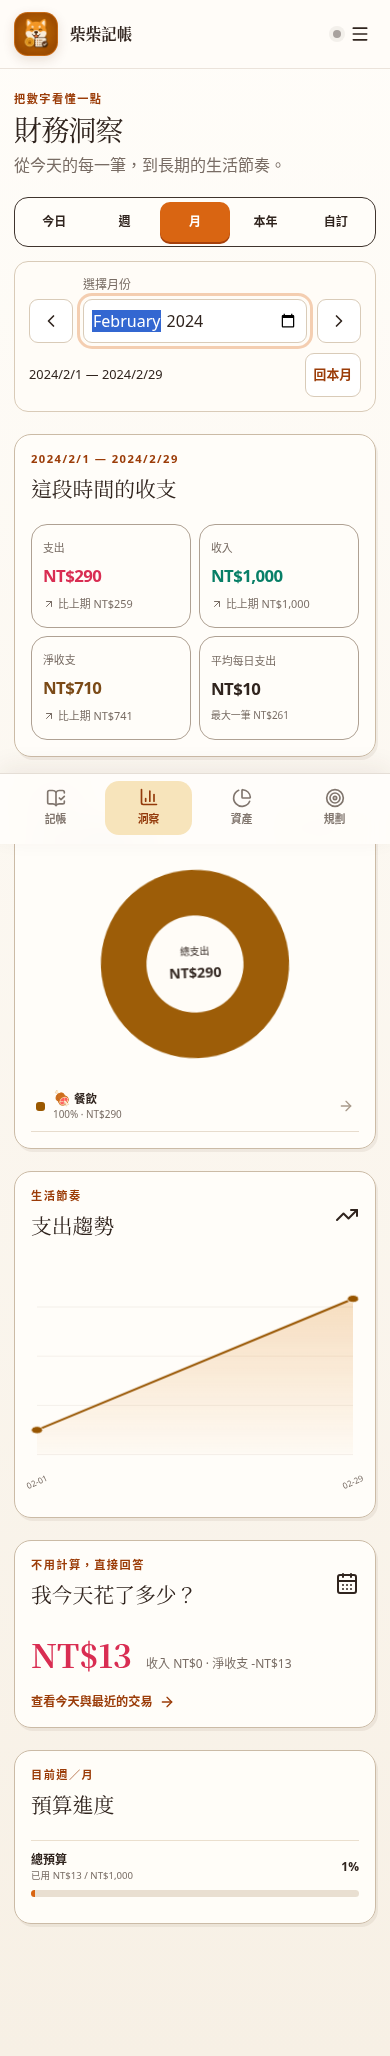
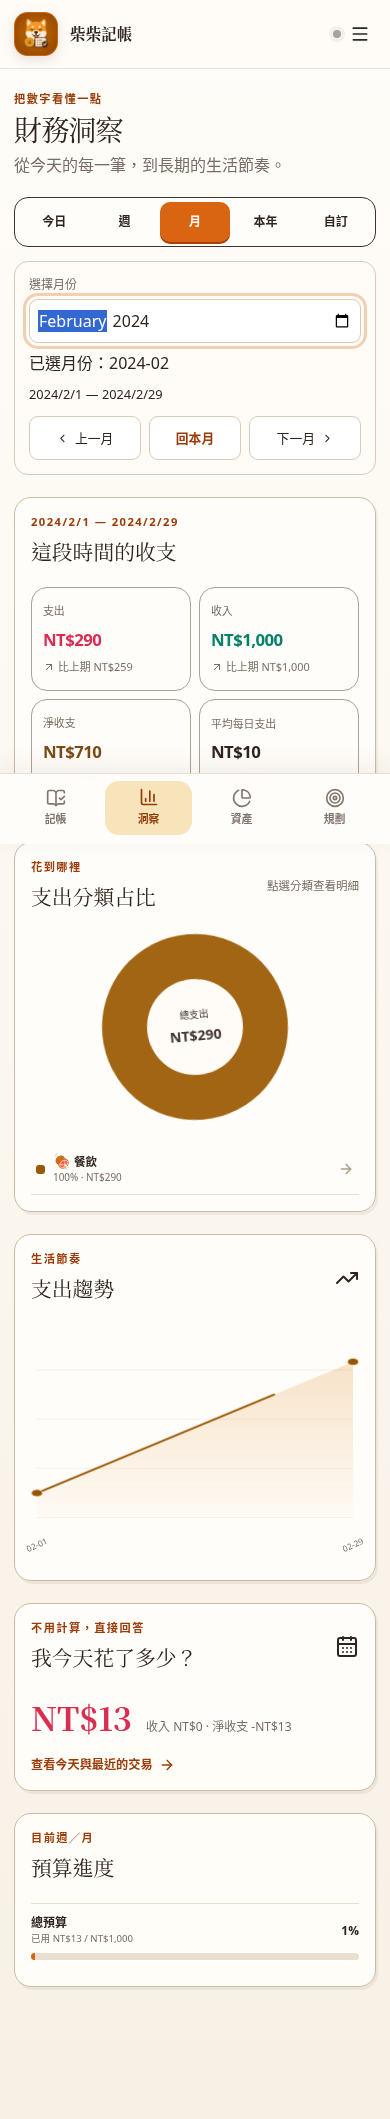
fix: prevent mobile calendar period controls from overlapping

diff --git a/src/index.css b/src/index.css
@@ -117,15 +117,18 @@ button:focus-visible,input:focus-visible,select:focus-visible,summary:focus-visi
 .period-switch { margin-bottom:22px; border:1px solid #3f342d; border-radius:14px; padding:4px; display:grid; grid-template-columns:repeat(5,1fr); background:#fffdf9; }.period-switch button { min-height:40px; border:0; border-radius:10px; background:transparent; font-size:.75rem; font-weight:850; cursor:pointer; }.period-switch button.active { color:white; background:var(--orange); box-shadow:0 2px 0 #a6400b; }
 .custom-range { margin:-8px 0 20px; display:flex; align-items:end; justify-content:center; gap:10px; color:var(--muted); }.custom-range label { font-size:.7rem; }.custom-range input { display:block; margin-top:4px; border:1px solid var(--line); border-radius:9px; padding:8px; background:#fff; }
 .calendar-period-picker { margin:-8px 0 22px; padding:14px; border:1px solid var(--line); border-radius:14px; background:var(--paper); }
-.calendar-period-controls { display:grid; grid-template-columns:44px minmax(0,1fr) 44px; gap:10px; align-items:end; }
-.calendar-period-controls label { min-width:0; color:var(--muted); font-size:.75rem; }
-.calendar-period-controls input { display:block; width:100%; min-width:0; min-height:44px; margin-top:5px; padding:8px; border:1px solid var(--line); border-radius:9px; background:white; color:var(--ink); font-size:16px; }
-.calendar-period-picker button { min-width:44px; min-height:44px; padding:8px; border:1px solid var(--line); border-radius:9px; background:white; cursor:pointer; }
-.calendar-period-controls button { display:grid; place-items:center; }
-.calendar-period-caption { display:flex; flex-wrap:wrap; align-items:center; justify-content:space-between; gap:8px; margin-top:10px; }
-.calendar-period-caption p { margin:0; font-size:.8rem; font-variant-numeric:tabular-nums; }
+.calendar-period-field { display:block; min-inline-size:0; color:var(--muted); font-size:.75rem; }
+/* Give native date/month controls their own row: iOS intrinsic sizing must not compete with arrows. */
+.calendar-period-field input { display:block; box-sizing:border-box; inline-size:100%; max-inline-size:100%; min-inline-size:0; min-height:44px; margin-top:5px; padding:8px; border:1px solid var(--line); border-radius:9px; background:white; color:var(--ink); font-size:max(16px,1rem); -webkit-appearance:none; appearance:none; }
+.calendar-period-field input::-webkit-date-and-time-value { min-inline-size:0; text-align:start; }
+.calendar-period-value { margin:8px 0 0; overflow-wrap:anywhere; font-size:1rem; font-variant-numeric:tabular-nums; }
+.calendar-period-caption { min-inline-size:0; margin-top:10px; }
+.calendar-period-caption p { margin:0; overflow-wrap:anywhere; font-size:.8rem; font-variant-numeric:tabular-nums; }
 .calendar-period-caption small { display:block; margin-top:3px; color:var(--muted); }
-.calendar-period-caption button { color:var(--orange-dark); font-size:.8rem; font-weight:800; }
+.calendar-period-actions { display:flex; flex-wrap:wrap; gap:8px; margin-top:12px; }
+.calendar-period-actions button { display:flex; flex:1 0 auto; align-items:center; justify-content:center; gap:6px; min-width:44px; min-height:44px; padding:8px; border:1px solid var(--line); border-radius:9px; background:white; font-size:.8rem; white-space:nowrap; cursor:pointer; }
+.calendar-period-actions svg { flex:none; width:1em; height:1em; }
+.calendar-period-actions .calendar-period-reset { color:var(--orange-dark); font-weight:800; }
 .insight-summary { border-radius:20px; padding:22px; }.metric-grid { display:grid; grid-template-columns:repeat(4,minmax(0,1fr)); gap:12px; }.insight-metric { min-width:0; min-height:118px; border:1px solid #afa193; border-radius:16px; padding:15px; display:flex; flex-direction:column; justify-content:center; }.insight-metric>span { color:var(--muted); font-size:.68rem; }.insight-metric>strong { margin:7px 0; font-size:clamp(1.05rem,2.6vw,1.55rem); }.insight-metric.expense>strong { color:var(--rose); }.insight-metric.income>strong { color:var(--green); }.insight-metric.net>strong { color:#7b4a17; }.insight-metric small,.metric-delta { color:var(--muted); font-size:.62rem; }.metric-delta { display:flex; align-items:center; gap:3px; }
 .analysis-grid { margin-top:22px; display:grid; grid-template-columns:1fr 1fr; gap:22px; }.analysis-panel { min-width:0; border-radius:20px; padding:22px; }.donut-layout { display:grid; grid-template-columns:210px minmax(0,1fr); align-items:center; gap:22px; }.category-donut { width:200px; height:200px; }.category-donut>span { inset:31%; }.category-donut b { margin-top:3px; font-size:.9rem; }.donut-legend { display:flex; flex-direction:column; }.donut-legend button { min-width:0; border:0; border-bottom:1px solid #e7dccd; padding:9px 5px; display:grid; grid-template-columns:9px minmax(0,1fr) 16px; align-items:center; gap:8px; text-align:left; background:transparent; cursor:pointer; }.donut-legend button.selected { margin-inline:-6px; padding-inline:11px; border-radius:9px; background:#f6ecdf; }.donut-legend i { width:9px; height:9px; border-radius:3px; }.donut-legend b,.donut-legend small { display:block; }.donut-legend b { overflow:hidden; text-overflow:ellipsis; font-size:.72rem; white-space:nowrap; }.donut-legend b>span { font-size:.9rem!important; }.donut-legend small { color:var(--muted); font-size:.62rem; }.donut-legend svg { color:#a99b8c; }
 .drilldown { margin-top:18px; border-top:1px solid #d7c9b8; padding-top:15px; }.drilldown .plain-heading { margin-bottom:6px; }.drilldown .plain-heading h3 { font-size:1rem; }.drilldown .plain-heading button { border:0; background:none; color:var(--orange-dark); font-size:.7rem; }.drilldown article { border-top:1px solid #ede4d8; padding:8px 3px; display:flex; justify-content:space-between; gap:12px; font-size:.72rem; }.drilldown article span small { display:block; color:var(--muted); }.trend-chart { position:relative; height:275px; padding:5px 6px 30px; }.trend-chart svg { width:100%; height:100%; overflow:visible; }.trend-grid-line { fill:none; stroke:#ded7cf; stroke-width:.35; vector-effect:non-scaling-stroke; }.trend-area { fill:url(#trendFill); animation:area-in .8s ease both; }.trend-line { fill:none; stroke:#975500; stroke-width:2; stroke-linecap:round; stroke-linejoin:round; vector-effect:non-scaling-stroke; stroke-dasharray:500; animation:draw-line 1s ease both; }.trend-chart circle { fill:#975500; stroke:#fff8ee; stroke-width:1; vector-effect:non-scaling-stroke; }.trend-labels { position:absolute; left:6px; right:6px; bottom:7px; height:18px; }.trend-labels span { position:absolute; transform:translateX(-50%) rotate(-25deg); color:var(--muted); font-size:.52rem; white-space:nowrap; }.hidden-label { display:none; }

diff --git a/src/components/InsightsView.tsx b/src/components/InsightsView.tsx
@@ -232,36 +232,43 @@ export function InsightsView({
       </div>
       {selectablePeriod && (
         <div className="calendar-period-picker" role="group" aria-label={selectablePeriod === "week" ? "選擇週" : "選擇月"}>
-          <div className="calendar-period-controls">
-            <button type="button" aria-label={selectablePeriod === "week" ? "上一週" : "上一月"}
-              disabled={!previousSelection} onClick={() => previousSelection && setSelection(previousSelection)}>
-              <ChevronLeft aria-hidden="true" className="h-5 w-5" />
-            </button>
-            <label>
-              {selectablePeriod === "week" ? "選擇週內任一天" : "選擇月份"}
-              <input
-                aria-label={selectablePeriod === "week" ? "選擇週內日期" : "選擇月份"}
-                aria-invalid={Boolean(selectionError)}
-                aria-describedby={selectionError ? "period-selection-error" : "selected-period-range"}
-                type={selectablePeriod === "week" ? "date" : "month"}
-                min={selectablePeriod === "week" ? "0101-01-01" : "0101-01"}
-                max={selectablePeriod === "week" ? "9999-12-31" : "9999-12"}
-                value={selectionValue}
-                onChange={(event) => setSelection(event.target.value)}
-              />
-            </label>
-            <button type="button" aria-label={selectablePeriod === "week" ? "下一週" : "下一月"}
-              disabled={!nextSelection} onClick={() => nextSelection && setSelection(nextSelection)}>
-              <ChevronRight aria-hidden="true" className="h-5 w-5" />
-            </button>
-          </div>
+          <label className="calendar-period-field">
+            {selectablePeriod === "week" ? "選擇週內任一天" : "選擇月份"}
+            <input
+              aria-label={selectablePeriod === "week" ? "選擇週內日期" : "選擇月份"}
+              aria-invalid={Boolean(selectionError)}
+              aria-describedby={selectionError ? "period-selection-error" : "selected-period-value selected-period-range"}
+              type={selectablePeriod === "week" ? "date" : "month"}
+              min={selectablePeriod === "week" ? "0101-01-01" : "0101-01"}
+              max={selectablePeriod === "week" ? "9999-12-31" : "9999-12"}
+              value={selectionValue}
+              onChange={(event) => setSelection(event.target.value)}
+            />
+          </label>
+          {selectedRange && (
+            <p id="selected-period-value" className="calendar-period-value">
+              {selectablePeriod === "week" ? "已選日期：" : "已選月份："}{selectionValue}
+            </p>
+          )}
           <div className="calendar-period-caption">
             <p id="selected-period-range" aria-live="polite">
               {selectedRange && `${selectedRange.start.toLocaleDateString("zh-TW")} — ${selectedRange.end.toLocaleDateString("zh-TW")}`}
               {selectedRange && selectablePeriod === "week" && <small>週一至週日</small>}
             </p>
-            <button type="button" onClick={() => setSelection(undefined)}>
+          </div>
+          <div className="calendar-period-actions">
+            <button type="button" aria-label={selectablePeriod === "week" ? "上一週" : "上一月"}
+              disabled={!previousSelection} onClick={() => previousSelection && setSelection(previousSelection)}>
+              <ChevronLeft aria-hidden="true" />
+              {selectablePeriod === "week" ? "上一週" : "上一月"}
+            </button>
+            <button type="button" className="calendar-period-reset" onClick={() => setSelection(undefined)}>
               {selectablePeriod === "week" ? "回本週" : "回本月"}
+            </button>
+            <button type="button" aria-label={selectablePeriod === "week" ? "下一週" : "下一月"}
+              disabled={!nextSelection} onClick={() => nextSelection && setSelection(nextSelection)}>
+              {selectablePeriod === "week" ? "下一週" : "下一月"}
+              <ChevronRight aria-hidden="true" />
             </button>
           </div>
           {selectionError && <p id="period-selection-error" className="error-message" role="alert">{selectionError}</p>}

diff --git a/src/components/InsightsView.periods.test.tsx b/src/components/InsightsView.periods.test.tsx
@@ -59,6 +59,8 @@ describe('InsightsView selected calendar periods', () => {
     fireEvent.change(screen.getByLabelText('選擇週內日期'), { target: { value: '2027-01-03' } });
     expect(picker()).toHaveTextContent('2026/12/28 — 2027/1/3');
     expect(expense()).toHaveTextContent('225');
+    expect(screen.getByText('已選日期：2027-01-03')).toBeVisible();
+    expect(screen.getByLabelText('選擇週內日期')).toHaveAccessibleDescription(/已選日期：2027-01-03.*2026\/12\/28/);
     const trend = screen.getByRole('img', { name: '支出趨勢折線圖' });
     expect(trend).toHaveTextContent('2026-12-28：');
     expect(trend).toHaveTextContent('2027-01-03：');
@@ -80,6 +82,8 @@ describe('InsightsView selected calendar periods', () => {
     render(<InsightsView data={fixture()} onOpenLedger={vi.fn()} />);
     fireEvent.change(screen.getByLabelText('選擇月份'), { target: { value: '2028-02' } });
     expect(summary()).toHaveTextContent('2028/2/1 — 2028/2/29');
+    expect(screen.getByText('已選月份：2028-02')).toBeVisible();
+    expect(screen.getByLabelText('選擇月份')).toHaveAccessibleDescription(/已選月份：2028-02/);
     expect(expense()).toHaveTextContent('290');
     for (let index = 0; index < 3; index++) {
       fireEvent.click(screen.getByRole('button', { name: '週' }));
@@ -117,6 +121,7 @@ describe('InsightsView selected calendar periods', () => {
     render(<InsightsView data={fixture()} onOpenLedger={vi.fn()} />);
     fireEvent.change(screen.getByLabelText('選擇月份'), { target: { value: '' } });
     expect(screen.getByRole('alert')).toHaveTextContent('請選擇有效的月份');
+    expect(screen.queryByText(/^已選月份：/)).not.toBeInTheDocument();
     expect(screen.queryByRole('region', { name: '這段時間的收支' })).not.toBeInTheDocument();
     expect(screen.getByRole('button', { name: '下一月' })).toBeDisabled();
     fireEvent.click(screen.getByRole('button', { name: '回本月' }));

diff --git a/scripts/verify-period-layout.py b/scripts/verify-period-layout.py
@@ -1,0 +1,130 @@
+"""Synthetic, local-only Chromium period layout regression and text-scale checks.
+
+Text scaling changes the root font size; this is not an iOS Dynamic Type test.
+Run alongside the Vite dev server: python scripts/verify-period-layout.py
+"""
+import argparse
+from datetime import datetime
+from pathlib import Path
+import runpy
+from urllib.parse import urlparse
+from zoneinfo import ZoneInfo
+
+from playwright.sync_api import expect, sync_playwright
+
+SEED = runpy.run_path(str(Path(__file__).with_name('verify-period-selector.py')))['SEED']
+URL = 'http://127.0.0.1:8888'
+GEOMETRY = """el => {
+  const rect = x => { const r=x.getBoundingClientRect(); return {
+    name:x.getAttribute('aria-label') || x.textContent, left:r.left, right:r.right,
+    top:r.top, bottom:r.bottom, width:r.width, height:r.height,
+    client:x.clientWidth, scroll:x.scrollWidth }; };
+  return { viewport:innerWidth, picker:rect(el),
+    controls:[...el.querySelectorAll('button,input')].map(rect),
+    captions:[...el.querySelectorAll('label,p')].map(rect) };
+}"""
+
+
+def check_layout(page):
+    picker = page.locator('.calendar-period-picker')
+    picker.scroll_into_view_if_needed()
+    data = picker.evaluate(GEOMETRY)
+    assert data['picker']['left'] >= 0 and data['picker']['right'] <= data['viewport'], data
+    for item in data['controls'] + data['captions']:
+        assert item['left'] >= data['picker']['left'], data
+        assert item['right'] <= data['picker']['right'], data
+        assert item['scroll'] <= item['client'] + 1, data
+    for i, item in enumerate(data['controls']):
+        assert item['height'] >= 44 and item['width'] >= 44, data
+        for other in data['controls'][i+1:]:
+            overlap_x = min(item['right'], other['right']) - max(item['left'], other['left'])
+            overlap_y = min(item['bottom'], other['bottom']) - max(item['top'], other['top'])
+            assert overlap_x <= 0 or overlap_y <= 0, data
+    # The native shadow's text can still clip; its complete value is repeated
+    # in a wrapping, full-size accessible caption checked above.
+    # Date input occupies a separate row above every action, including after rotation.
+    assert data['controls'][0]['bottom'] <= min(x['top'] for x in data['controls'][1:]), data
+
+
+def main():
+    parser = argparse.ArgumentParser()
+    parser.add_argument('--widths', nargs='+', type=int, default=[320,375,390,414,430,440])
+    args = parser.parse_args()
+    shots = Path('docs/screenshots')
+    with sync_playwright() as p:
+        browser = p.chromium.launch(executable_path='/usr/bin/chromium')
+        count = 0
+        for width, height in [(320,568),(375,667),(390,844),(414,896),(430,932),(440,956)]:
+            if width not in args.widths:
+                continue
+            for scale in [1, 1.5, 2]:
+                for empty in [False, True]:
+                    context = browser.new_context(viewport={'width':width,'height':height},
+                        is_mobile=True, has_touch=True, timezone_id='Asia/Taipei', locale='en-US')
+                    external = []
+                    def route_local(route):
+                        if urlparse(route.request.url).netloc != urlparse(URL).netloc:
+                            external.append(route.request.url)
+                            route.abort()
+                        elif urlparse(route.request.url).path == '/__period_fixture__':
+                            route.fulfill(status=200, content_type='text/html', body='<html><body>Local synthetic fixture setup</body></html>')
+                        else:
+                            route.continue_()
+                    context.route('**/*', route_local)
+                    page = context.new_page()
+                    errors = []
+                    page.on('pageerror', lambda error: errors.append(str(error)))
+                    page.add_init_script("""localStorage.setItem('shiba-finance:onboarding:v2:guest',
+                        JSON.stringify({version:2,chapter:'full',status:'completed',step:'complete'}));""")
+                    page.clock.install(time=datetime(2026,10,13,12,tzinfo=ZoneInfo('Asia/Taipei')))
+                    # Seed on a same-origin blank page before React/durability mounts.
+                    page.goto(URL + '/__period_fixture__')
+                    fixture_seed = SEED
+                    if empty:
+                        fixture_seed = SEED.replace(
+                            "  localStorage.setItem(storageKey('guest')",
+                            "  data.transactions = []; data.transfers = [];\n  localStorage.setItem(storageKey('guest')")
+                    page.evaluate(fixture_seed)
+                    persisted = page.evaluate("localStorage.getItem('shiba-finance:v3:guest')")
+                    page.goto(URL)
+                    page.add_style_tag(content=f'html {{ font-size: {16*scale}px !important; }}')
+                    page.get_by_role('button', name='洞察', exact=True).click()
+                    summary = page.get_by_role('region', name='這段時間的收支')
+                    for w,h in [(width,height),(height,width)]:
+                        page.set_viewport_size({'width':w,'height':h})
+                        for period,value,total in [('月','2024-02','NT$290'),('週','2025-01-05','NT$225')]:
+                            page.get_by_role('button',name=period,exact=True).click()
+                            field = page.get_by_label('選擇月份' if period=='月' else '選擇週內日期',exact=True)
+                            field.fill(value)
+                            expect(summary.locator('.insight-metric.expense strong')).to_have_text('NT$0' if empty else total)
+                            expect(page.locator('#selected-period-value')).to_contain_text(value)
+                            check_layout(page)
+                            if period=='月':
+                                # September is a long native en-US month value; the full
+                                # caption must remain readable even if native text clips.
+                                field.fill('2026-09')
+                                expect(page.locator('#selected-period-range')).to_have_text('2026/9/1 — 2026/9/30')
+                                expect(page.locator('#selected-period-value')).to_have_text('已選月份：2026-09')
+                                check_layout(page)
+                                field.fill(value)
+                            if w==320 and scale==2 and not empty:
+                                page.locator('.calendar-period-picker').screenshot(style='.app-header, .app-header *, .bottom-nav, .bottom-nav * { visibility: hidden !important; }', path=str(shots/f'period-layout-{period}-320-200pct.png'))
+                            page.get_by_role('button',name=f'下一{period}',exact=True).click()
+                            page.get_by_role('button',name=f'上一{period}',exact=True).click()
+                            expect(summary.locator('.insight-metric.expense strong')).to_have_text('NT$0' if empty else total)
+                            page.get_by_role('button',name=f'回本{period}',exact=True).click()
+                            expect(page.locator('#selected-period-value')).to_contain_text('2026-10' if period=='月' else '2026-10-12')
+                            check_layout(page)
+                            if period=='週' and empty and w==width and (width,scale) in [(440,1),(320,2)]:
+                                page.locator('.calendar-period-picker').screenshot(style='.app-header, .app-header *, .bottom-nav, .bottom-nav * { visibility: hidden !important; }', path=str(shots / (f'period-layout-after-{width}-200pct.png' if scale==2 else f'period-layout-after-{width}.png')))
+                        count += 1
+                    assert not external and not errors, (external,errors)
+                    assert page.evaluate("localStorage.getItem('shiba-finance:v3:guest')") == persisted
+                    print(f'[pass] {width}x{height} + rotation, text {scale*100:g}%, {"empty" if empty else "synthetic"}: controls, range, switching, totals, unchanged data')
+                    context.close()
+        browser.close()
+        print(f'{count} viewport/data/text-scale cases passed (week + month each).')
+
+
+if __name__ == '__main__':
+    main()

diff --git a/scripts/verify-period-selector.py b/scripts/verify-period-selector.py
@@ -178,6 +178,8 @@ def main():
                     if urlparse(route.request.url).netloc != parsed.netloc:
                         external.append(route.request.url)
                         route.abort()
+                    elif urlparse(route.request.url).path == '/__period_fixture__':
+                        route.fulfill(status=200, content_type='text/html', body='<html><body>Local synthetic fixture setup</body></html>')
                     else:
                         route.continue_()
                 context.route('**/*', route_local)
@@ -191,9 +193,10 @@ def main():
                 page.on('pageerror', lambda error: errors.append(str(error)))
                 # Noon in each local timezone, independent of the executor timezone.
                 page.clock.install(time=datetime(2026, 10, 13, 12, tzinfo=ZoneInfo(tz)))
-                page.goto(args.url)
+                # Seed before React mounts, so async durability cannot overwrite the fixture.
+                page.goto(args.url.rstrip('/') + '/__period_fixture__')
                 fixture = page.evaluate(SEED)
-                page.reload()
+                page.goto(args.url)
                 verify(page, screenshots, capture=width == 390 and tz == 'Asia/Taipei')
                 if cdp:
                     # Keep calendar selections stable when the device timezone changes
